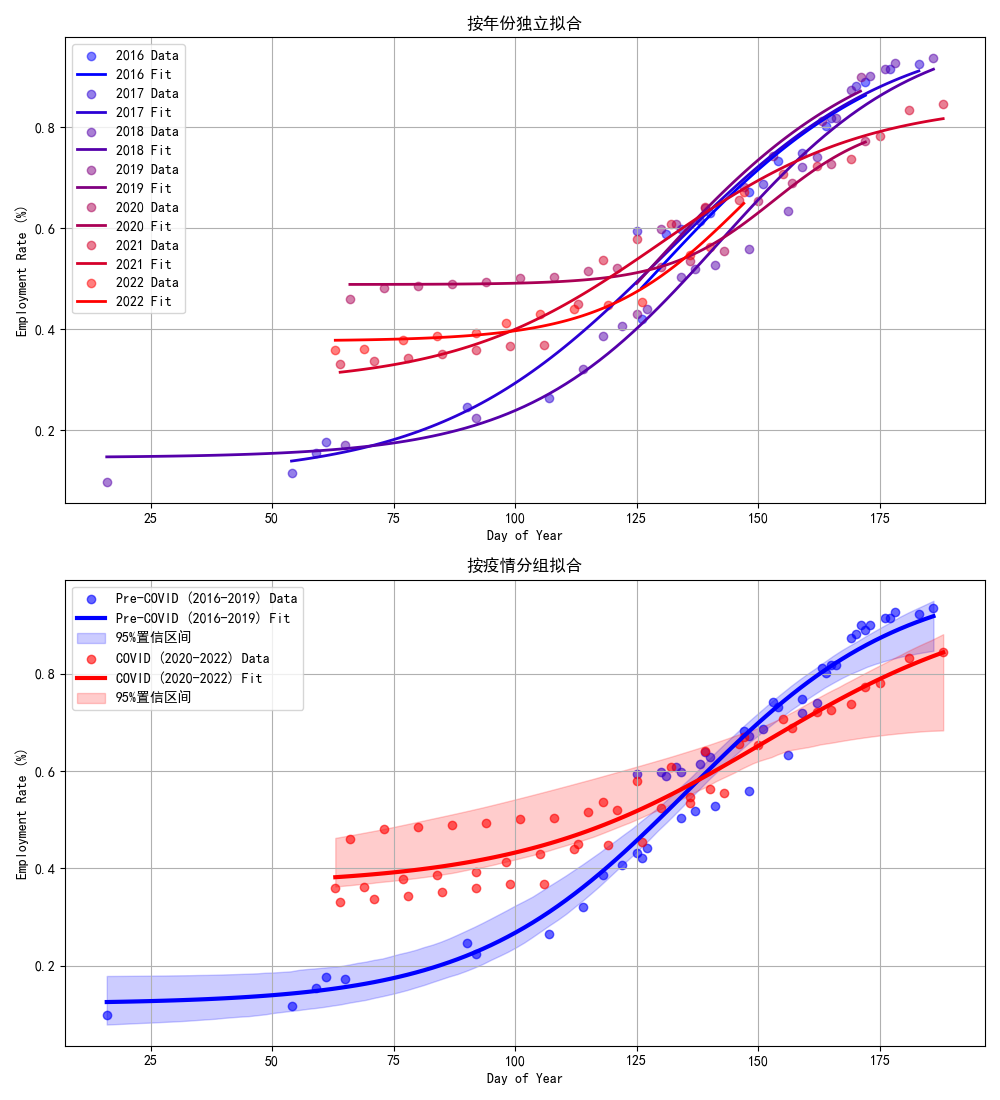
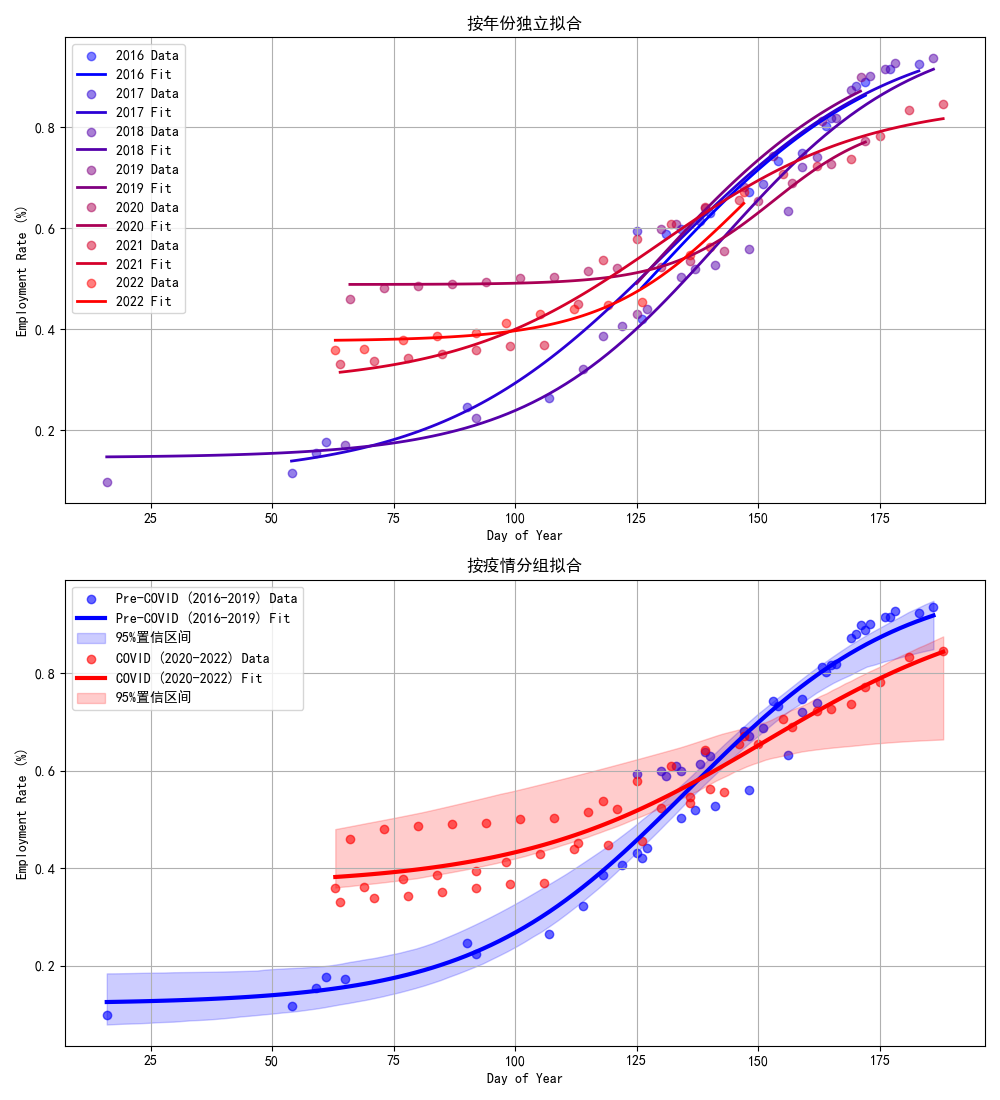
修改了表格写入的代码，解决了写入数字类型会被吞小数点后0的问题

diff --git a/25NKUMCM-C/Q1_Logistic.py b/25NKUMCM-C/Q1_Logistic.py
@@ -621,7 +621,7 @@ def show_prediction_comparison(params_by_year, pred_data, subject, data):
                 linewidth=1,
                 label=f"{year} Fit",
                 color=colors[year - 2016],
-                alpha=0.7,
+                alpha=0.9,
             )
     # 绘制预测曲线（2023-2027）
 
@@ -666,7 +666,7 @@ def function(subject):
         params = fff.loc[year][["A", "K", "k", "x0"]]
         for x in predict_xtest:
             # 计算就业率
-            rate = round(four_pl(x, *params) * 100, 1)
+            rate = str(round(four_pl(x, *params) * 100, 1))
 
             # 生成日期（示例：20250101）
             date_obj = datetime.datetime(year, 1, 1) + datetime.timedelta(days=x - 1)
